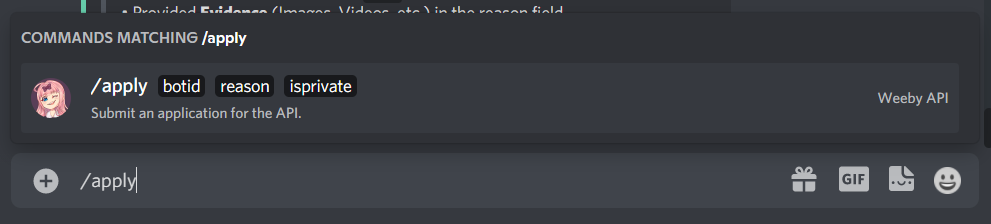
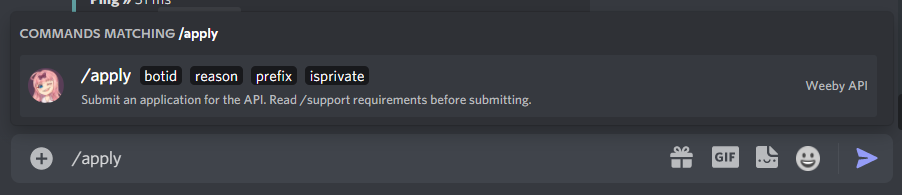
minor changes

diff --git a/guide/weeby-api/bot-commands.md b/guide/weeby-api/bot-commands.md
@@ -9,7 +9,7 @@ The Weeby API bot uses slash commands which can be run in the server.
 				:command="true"
 			>apply</DiscordInteraction>
 		</template>
-        <strong>/apply</strong> &lt;bot ID&gt; &lt;reason&gt; &lt;isprivate&gt;<br>
+        <strong>/apply</strong> &lt;bot ID&gt; &lt;reason&gt; &lt;prefix&gt; &lt;isprivate&gt;<br>
         <i>Submit an application for the API.</i>
     </DiscordMessage>
     <DiscordMessage profile="bot">
